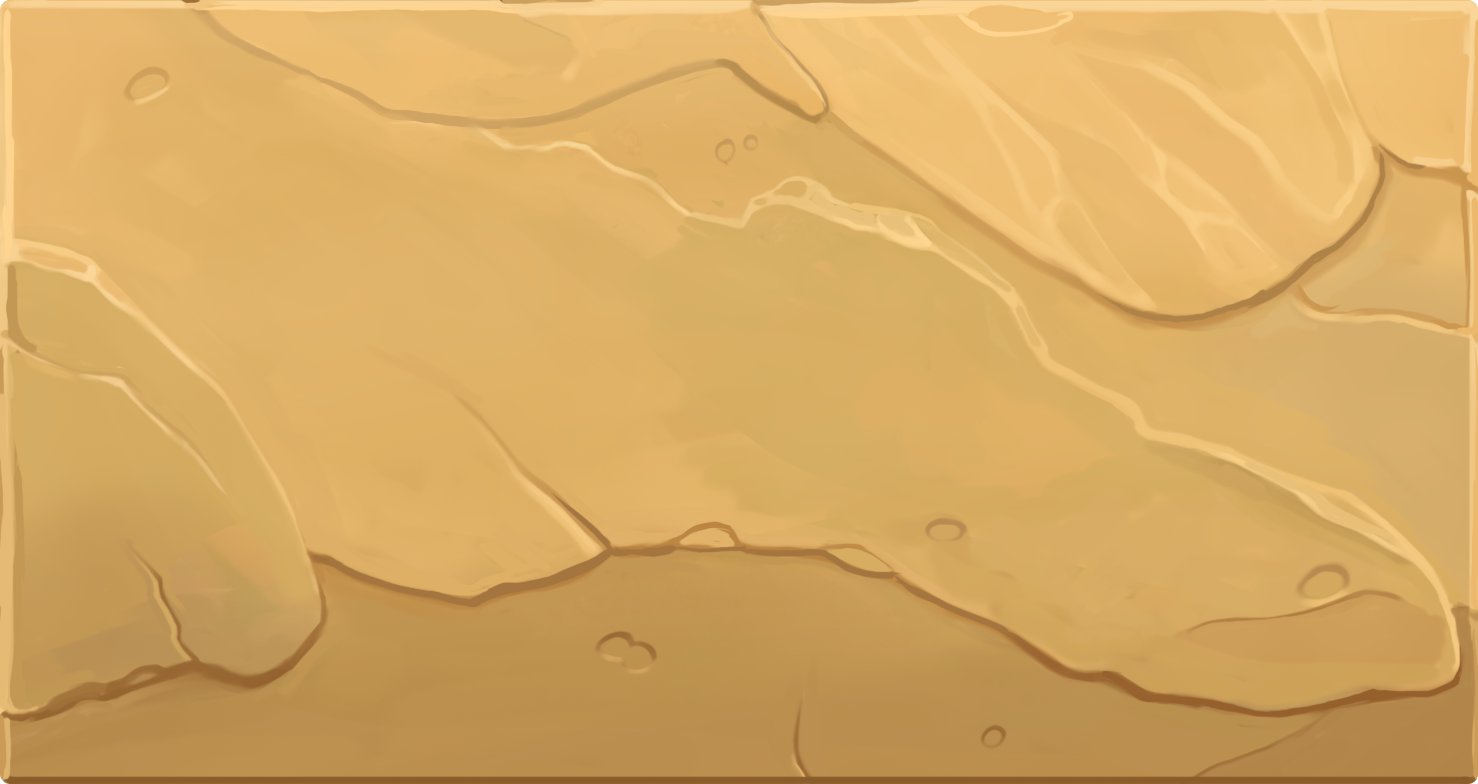
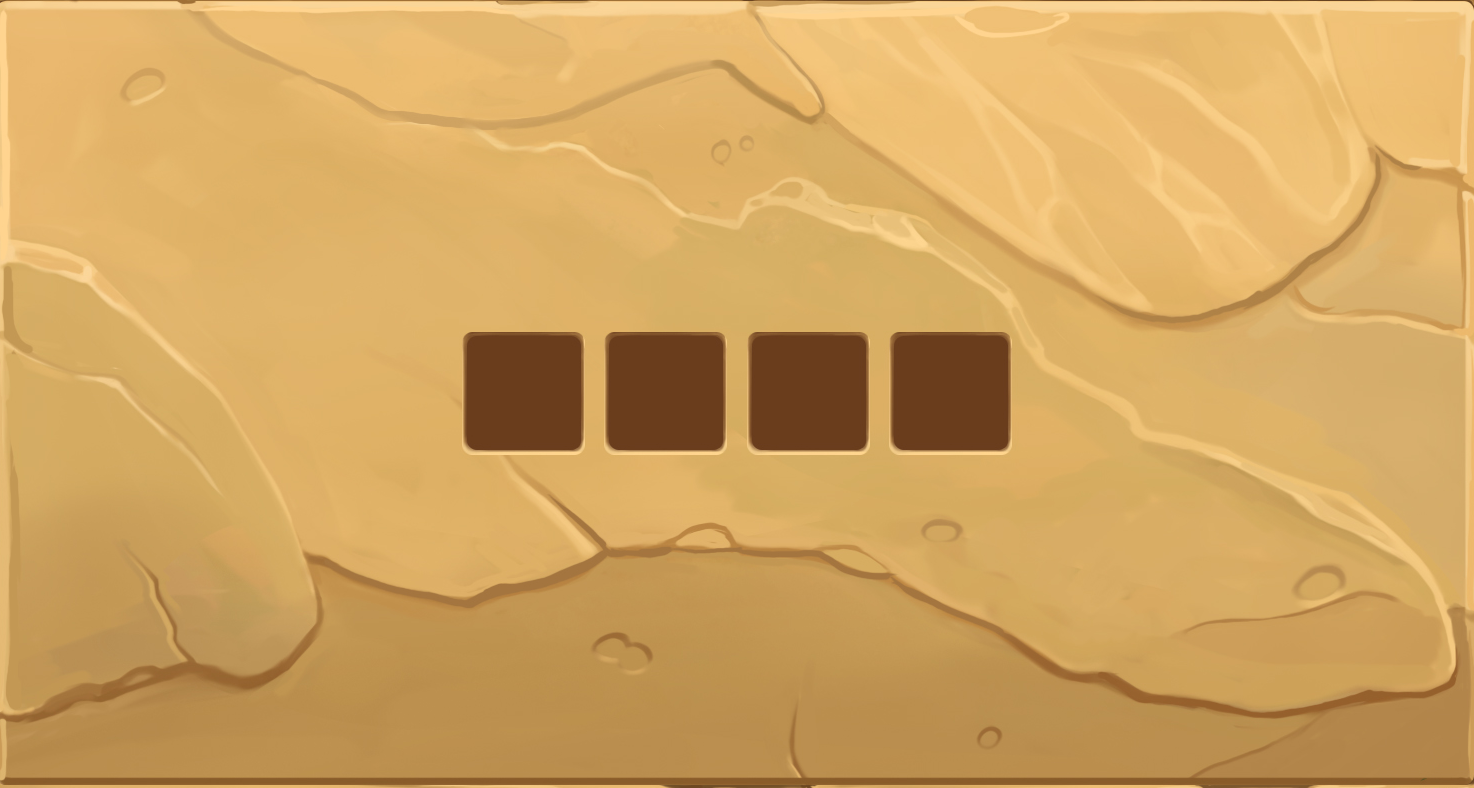
Adopt the revised face art and seat the Face V keys in painted holes
Swap in the artist's corrected per-face art for faces II, IV, and the Face V
lid (split from the 1820x5000 sheet): stone_face_02, stone_face_04, and a lid
crop for cap_face_05 that carries the four button holes.

Face V keys now sit in the painted holes instead of CSS-drawn sockets: drop the
socket lip and interior fill, inset each key 1px (with a per-key extra pixel off
the centre-facing and bottom edges so they seat in the holes), wash the socket
with a translucent dark brown for the side walls, and darken the key top as it
sinks. The lid underside uses cap_underside_05 (the hole-less slab) so its back
reads as solid stone when it hinges open.

Square the Face IV tiles by making the tray an exact 3:2 box (bottom 8.4%).

Claude-Session: https://claude.ai/code/session_01Q6PLZY4FeeRpwUcSDqktu9

diff --git a/paulmartin.dev/src/machine/faces/FaceV.css b/paulmartin.dev/src/machine/faces/FaceV.css
@@ -198,7 +198,7 @@
      toward the bottom, so it reads as stone in shade, not a flat gradient. */
   background:
     linear-gradient(180deg, rgba(74, 47, 22, 0.4) 0%, rgba(48, 30, 13, 0.62) 100%),
-    url('/machine/cap_face_05.png') center / cover no-repeat;
+    url('/machine/cap_underside_05.png') center / cover no-repeat;
   /* No border or rim: its bottom edge fades into the chamber below instead of
      cutting a hard seam across the opening. A warm brown shade, not black. */
   box-shadow: inset 0 6px 16px rgba(30, 18, 8, 0.5);
@@ -263,21 +263,21 @@
   gap: clamp(0.45rem, 1.4vw, 1.1rem);
 }
 
-/* Each key is set into a socket cut into the slate: a dark recess with a brown
-   seam rim, matching the sunk trays elsewhere. The key fills it flush at rest;
-   pressing sinks the key down so the dark inner wall shows above it, reading as
-   the key sinking into the panel. overflow:hidden keeps the sunk key in its hole. */
+/* Each key is set into a hole cut into the slate. The hole (its brown rim and
+   shadowed interior) is painted into the lid art (cap_face_05), so this is just the
+   container that holds the key over it. The key fills it flush at rest; pressing
+   sinks the key so the painted inner wall shows above it, reading as the key sinking
+   into the panel. overflow:hidden keeps the sunk key in its hole. */
 .face5-pad__socket {
   flex: 1 1 0;
   aspect-ratio: 1;
   position: relative;
   border-radius: 9px;
   overflow: hidden;
-  /* The cutout in the box: a brown lip (the seam - a feature of the box, not the
-     key) around a shadowed interior. The key sits flush in it and recedes into the
-     shadow when pressed; the lip stays put. */
-  border: 2px solid #83611f;
-  background: linear-gradient(180deg, #1d1108 0%, #2c190e 100%);
+  /* A translucent dark-brown wash over the painted hole, so its side walls (the
+     frame that shows around the key as it sinks) read a touch deeper than the flat
+     art. Kept transparent so the painted stone still reads through. */
+  background: rgba(22, 13, 6, 0.42);
 }
 
 /* Polished obsidian keys: near-black volcanic glass with a cool top sheen (the
@@ -285,7 +285,9 @@
    cutout; no bezel, no border of its own. */
 .face5-pad__button {
   position: absolute;
-  inset: 0;
+  /* 1px in from the socket on every side, so the key seats inside the painted hole
+     (a touch smaller than the key's footprint) rather than overhanging its rim. */
+  inset: 1px;
   border: none;
   border-radius: 7px;
   cursor: pointer;
@@ -303,6 +305,45 @@
     transform 1s ease-out,
     box-shadow 1s ease-out,
     filter 0.12s ease;
+}
+
+/* Per-key seating trim: the painted holes sit a hair in toward the row centre and
+   up, so the left pair (Left, Up) loses its extra pixel off the right and bottom,
+   the right pair (Right, Down) off the left and bottom (inset order T R B L). */
+.face5-pad__button[data-direction='Left'],
+.face5-pad__button[data-direction='Up'] {
+  inset: 1px 2px 2px 1px;
+}
+
+.face5-pad__button[data-direction='Right'],
+.face5-pad__button[data-direction='Down'] {
+  inset: 1px 1px 2px 2px;
+}
+
+/* Recess shadow over the key: as it sinks into the painted hole its top slides
+   under the upper wall and falls into shadow. Transparent at rest, it fades in with
+   the press (quick, matching the sink) and fades back out slowly with the rise. */
+.face5-pad__button::after {
+  content: '';
+  position: absolute;
+  inset: 0;
+  border-radius: inherit;
+  pointer-events: none;
+  z-index: 5;
+  background: linear-gradient(
+    180deg,
+    rgba(0, 0, 0, 0.62) 0%,
+    rgba(0, 0, 0, 0.28) 22%,
+    rgba(0, 0, 0, 0) 52%
+  );
+  opacity: 0;
+  transition: opacity 1s ease-out;
+}
+
+.face5-pad__button:active::after,
+.face5-pad__button.is-pressed::after {
+  opacity: 1;
+  transition: opacity 0.4s ease;
 }
 
 .face5-pad__button:hover {

diff --git a/paulmartin.dev/src/machine/faces/FaceIV.css b/paulmartin.dev/src/machine/faces/FaceIV.css
@@ -11,7 +11,7 @@
   top: 7.4%;
   left: 15.3%;
   right: 15.3%;
-  bottom: 8.5%;
+  bottom: 8.4%;
   border-radius: 7px;
 }
 
